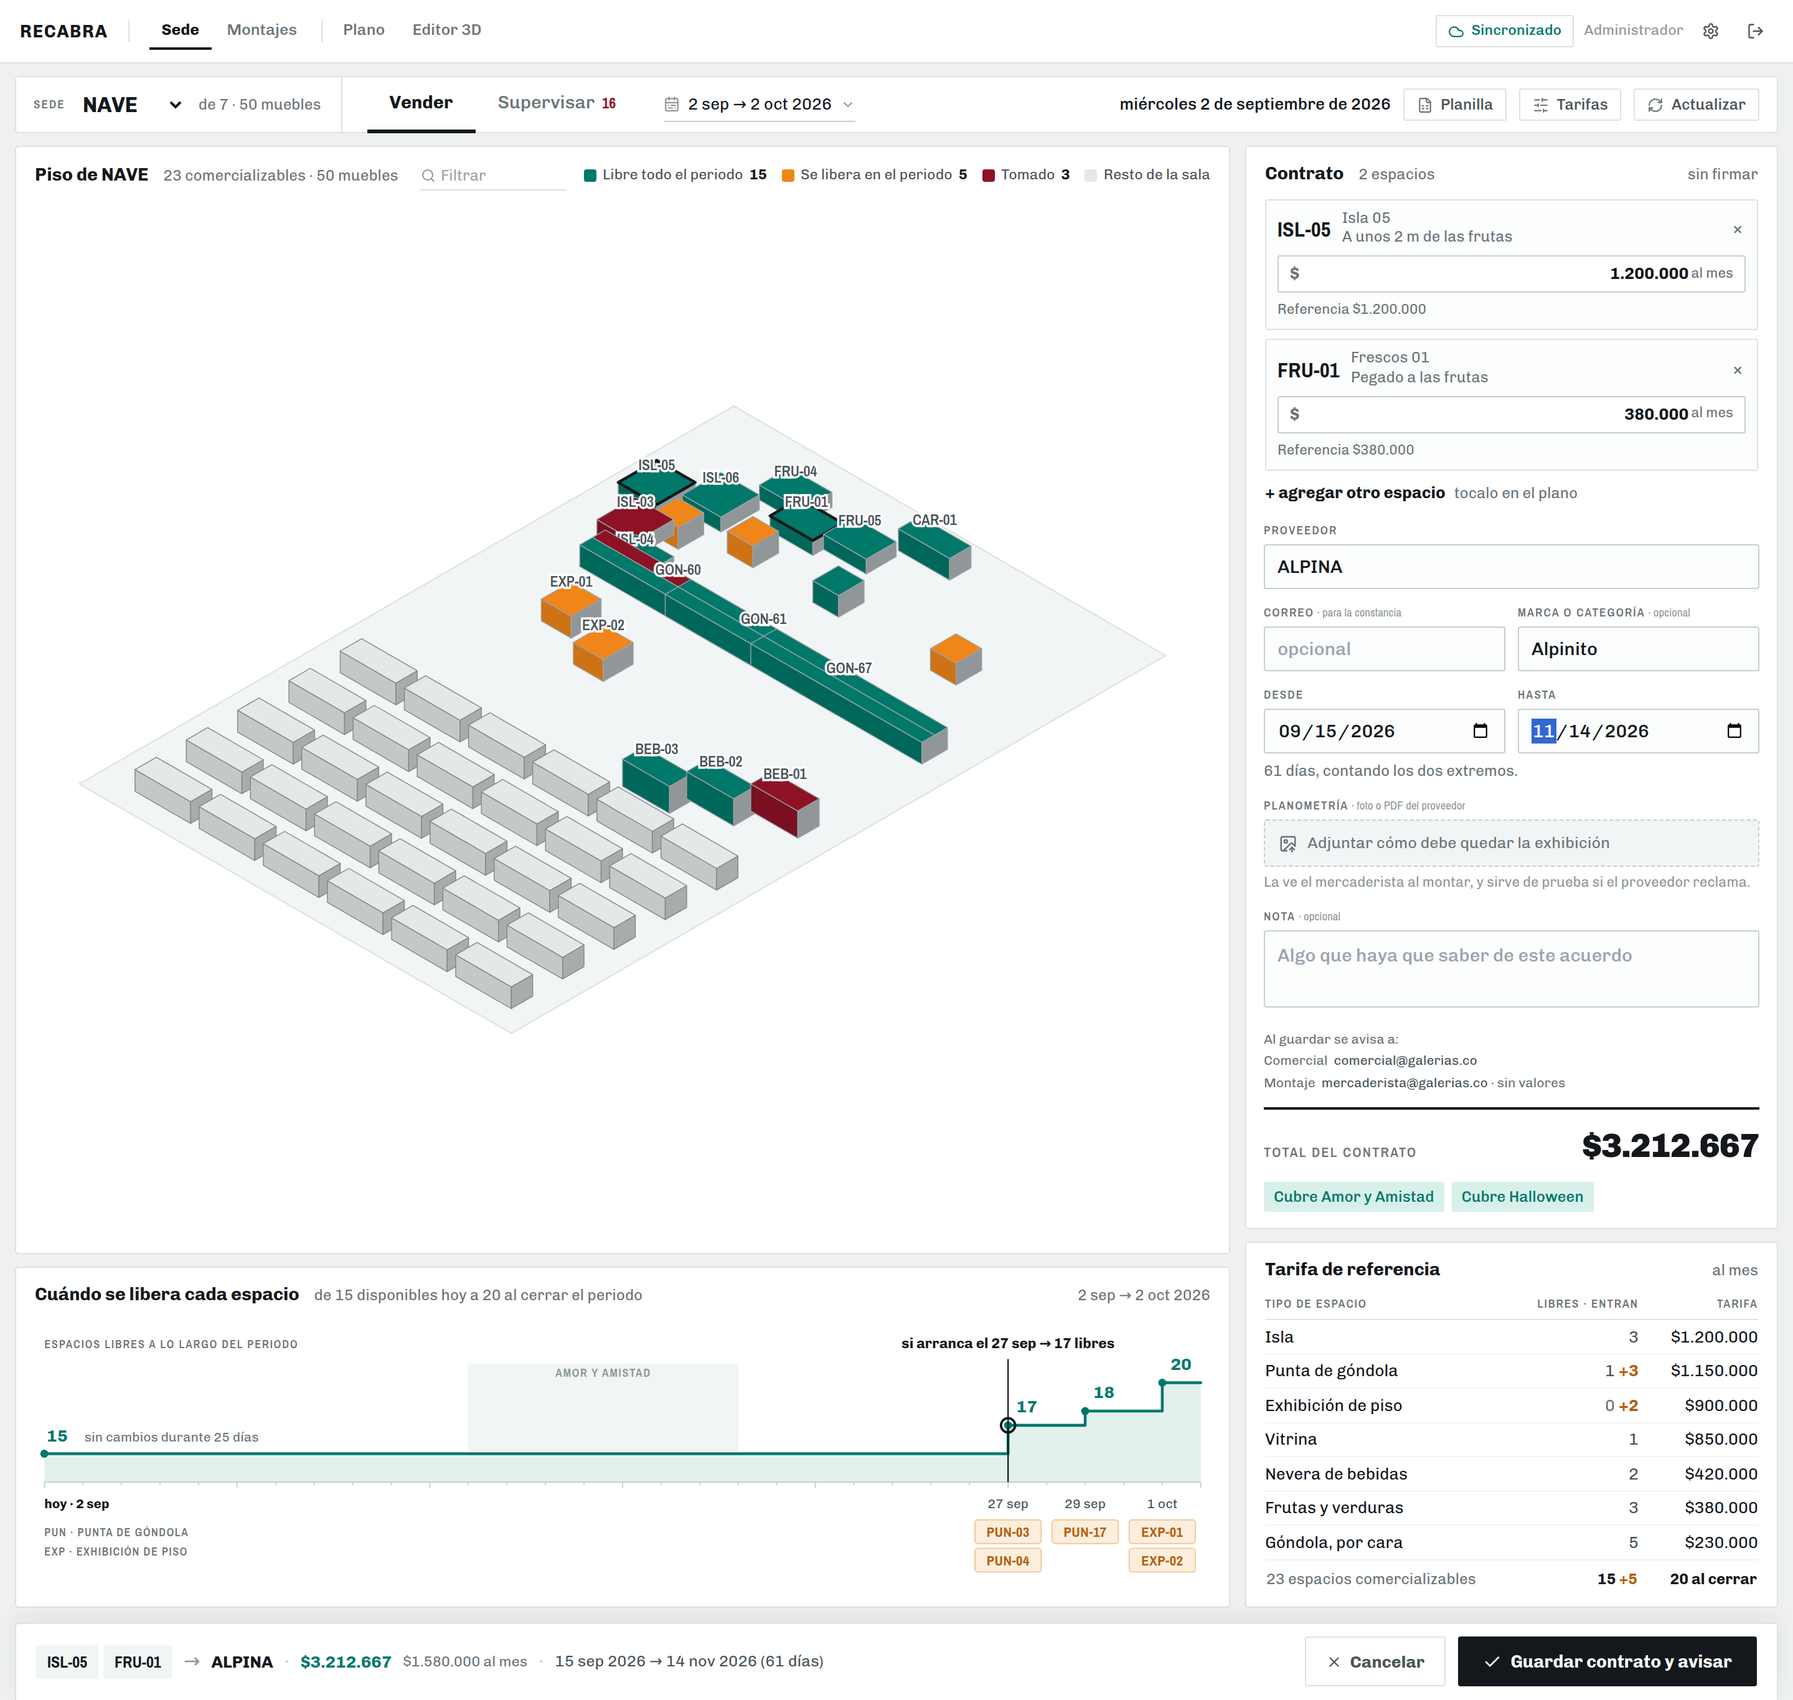
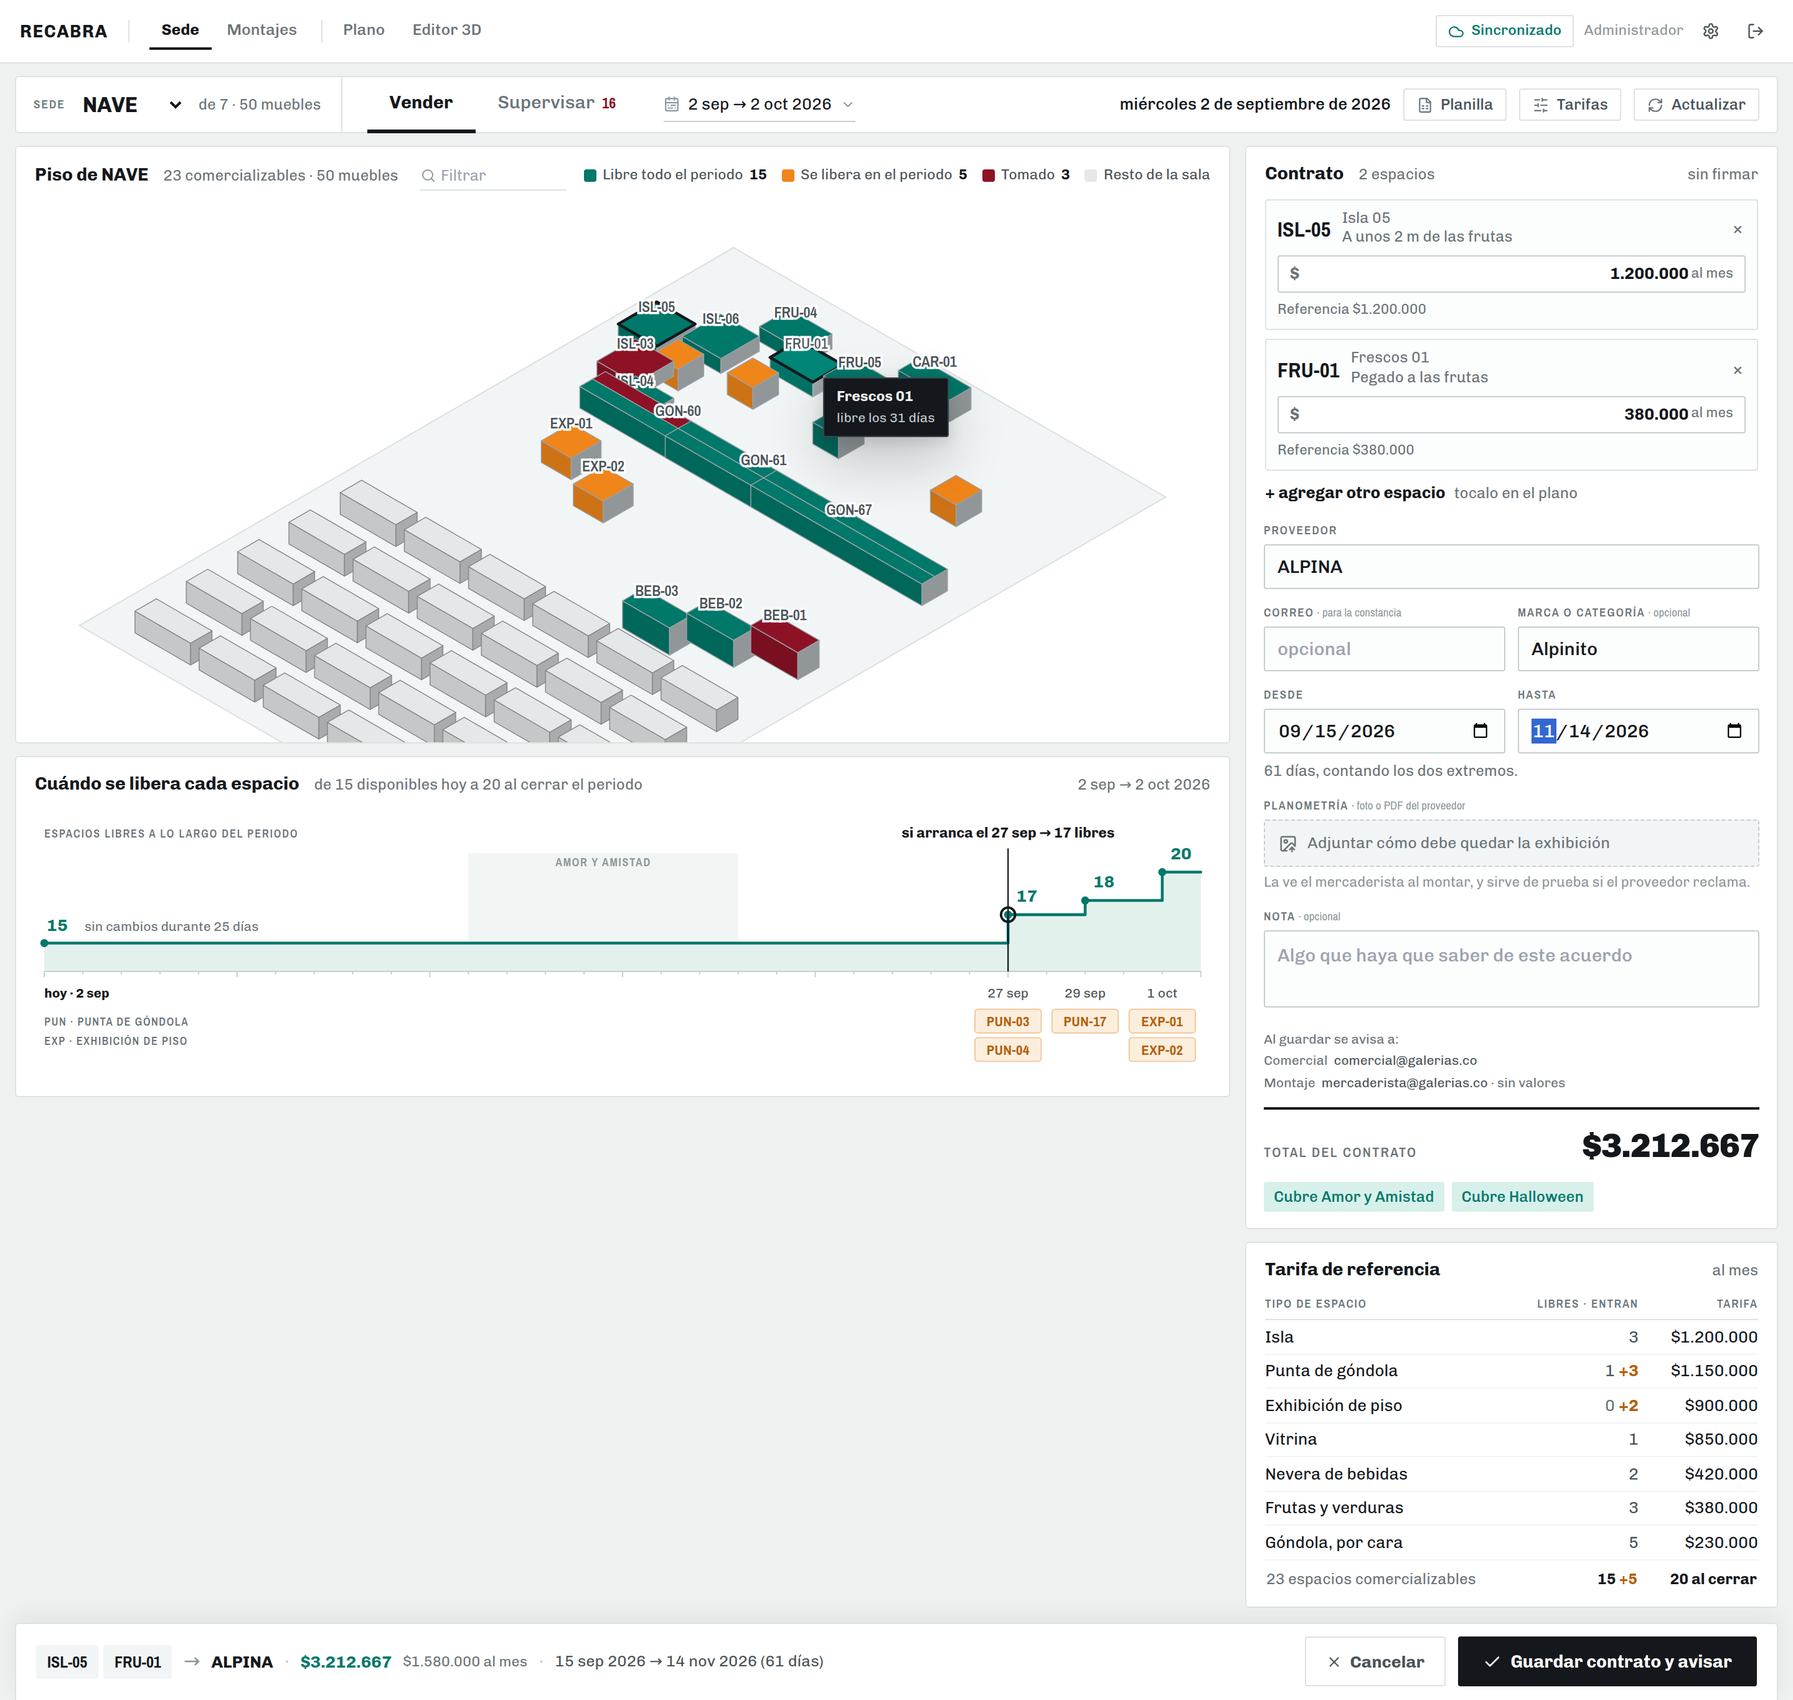
fix(plano): el encuadre, que dejaba el dibujo chico y medio panel en blanco
Tres cosas que salieron de mirar la pantalla desplegada, no de diseñarla.

EL ALTO DE LA TARJETA lo pone ahora la PROPORCIÓN DEL PLANO, no un número.
Estaba fijo en 538 —el de la maqueta— y con eso el panel quedaba de 1450×430,
una ranura de 3,4:1, mientras el plano de NAVE es de 1,7:1. `meet` lo encajaba
por el alto y dejaba el 55% del ancho en blanco: el dibujo se veía chico y
lejos, con medio panel vacío alrededor. El número de la maqueta funcionaba en
la maqueta porque su plano sintético daba 1,9 sobre un panel de 1024 — dos
medidas que no sobreviven al primer plano real ni a la primera pantalla ancha.

La proporción no se puede fijar en el código porque depende de la sede: una
tienda larga y angosta y una cuadrada proyectan distinto. El lienzo la toma del
viewBox de la escena, con techo de 720 px para que una sede casi cuadrada no
empuje una tarjeta de mil píxeles, y piso de 360 para que una muy alargada no
quede como una tira.

EN VENDER LA CÁMARA YA NO SE ACERCA al mueble elegido, y no es preferencia: ahí
tocar un espacio lo SUMA al contrato, así que el gesto siguiente es tocar otro
— y acercarse al primero esconde justamente los que faltan elegir. Con el
contrato multiespacio ese acercamiento pasó de ayuda a estorbo.

En Supervisar sí se acerca, porque ahí se abre una fila de la tabla y la
pregunta es dónde queda. Pero el tope baja de 3,4 a 1,9: a 3,4 se veían cuatro
muebles y el resto de la sala quedaba afuera, así que el plano dejaba de
[…]

diff --git a/frontend/src/pages/DashboardView.tsx b/frontend/src/pages/DashboardView.tsx
@@ -529,9 +529,19 @@ interface IsoMapProps {
    *  by what is happening today. */
   range: DateRange | null;
   rotulos?: Rotulos;
+  /** ¿La cámara se acerca al mueble elegido?
+   *
+   *  En Supervisar sí: se abre UNA fila de la tabla y la pregunta es dónde
+   *  queda. En Vender no, y no es una preferencia: ahí tocar un espacio lo suma
+   *  al contrato, así que el gesto siguiente es tocar OTRO — y acercarse al
+   *  primero esconde justamente los que faltan elegir. */
+  enfocar?: boolean;
 }
 
-function IsoMap({ fixtures, selectedIds, onSelect, match, range, rotulos = "todos" }: IsoMapProps) {
+function IsoMap({
+  fixtures, selectedIds, onSelect, match, range,
+  rotulos = "todos", enfocar = true,
+}: IsoMapProps) {
   const wrapRef = useRef<HTMLDivElement>(null);
   const [hoverId, setHoverId] = useState<string | null>(null);
   const [tip, setTip] = useState<{ x: number; y: number; title: string; sub: string } | null>(null);
@@ -703,14 +713,16 @@ function IsoMap({ fixtures, selectedIds, onSelect, match, range, rotulos = "todo
   // —un contrato sobre varias puntas— acercarse a uno esconde al resto y, peor,
   // esconde los que todavía faltan tocar. Ahí el trabajo es seguir eligiendo
   // sobre el plano entero.
-  const enfocado = selectedIds.length === 1
+  const enfocado = enfocar && selectedIds.length === 1
     ? scene.prisms.find((q) => q.f.id === selectedIds[0])?.foco ?? null
     : null;
-  // El tope importa más que la fórmula: una punta de góndola es tan chica que
-  // encuadrarla sola deja a los vecinos gigantes y cortados. Con 3.4 se ve el
-  // mueble y el pasillo alrededor, que es lo que hace falta para ubicarse.
+  // El tope importa más que la fórmula. Estaba en 3.4 y era demasiado: a esa
+  // distancia se ven cuatro muebles y el resto de la sala queda afuera, así que
+  // el plano deja de contestar «dónde queda esto» —que es su único trabajo— y
+  // pasa a ser un primer plano de un prisma. Con 1.9 el mueble se distingue y
+  // el pasillo entero sigue en pantalla.
   const k = enfocado
-    ? Math.min(3.4, Math.max(1, 0.17 * Math.min(scene.vb.w, scene.vb.h) / enfocado.r))
+    ? Math.min(1.9, Math.max(1, 0.17 * Math.min(scene.vb.w, scene.vb.h) / enfocado.r))
     : 1;
   // Sintaxis CSS, no de atributo SVG: `translate(10 20)` sin unidades ni coma
   // es válido como atributo pero inválido como propiedad, y el navegador
@@ -725,10 +737,29 @@ function IsoMap({ fixtures, selectedIds, onSelect, match, range, rotulos = "todo
     setTip({ x: e.clientX - rect.left, y: e.clientY - rect.top, title, sub });
   };
 
+  /** El lienzo toma la PROPORCIÓN DEL PLANO, no la de la tarjeta.
+   *
+   *  Con alto fijo el panel quedaba de 1450×430 —una ranura de 3.4:1— y el
+   *  plano de esta sede es de 1.7:1, así que `meet` lo encajaba por el alto y
+   *  dejaba el 55% del ancho en blanco: el dibujo se veía chico y lejos, con
+   *  medio panel vacío alrededor. La proporción no se puede fijar en el código
+   *  porque depende de la sede: una tienda larga y angosta y una cuadrada
+   *  proyectan distinto.
+   *
+   *  El tope de alto existe para que una sede casi cuadrada no empuje una
+   *  tarjeta de mil píxeles; el piso, para que una muy alargada no la deje
+   *  como una tira. Entre los dos, el plano llena su caja. */
+  const proporcion = scene.vb.w / scene.vb.h;
+
   return (
     <div
       ref={wrapRef}
-      style={{ position: "relative", flex: 1, minHeight: 0, display: "flex" }}
+      style={{
+        position: "relative", width: "100%", margin: "0 auto",
+        aspectRatio: `${scene.vb.w.toFixed(1)} / ${scene.vb.h.toFixed(1)}`,
+        maxHeight: 720, minHeight: 360, display: "flex",
+      }}
+      data-proporcion={proporcion.toFixed(2)}
     >
       <svg
         viewBox={scene.viewBox}
@@ -788,7 +819,7 @@ function IsoMap({ fixtures, selectedIds, onSelect, match, range, rotulos = "todo
                 setHoverId(null);
                 setTip(null);
               }}
-              opacity={dimmed ? 0.18 : enfocado && !selected ? 0.2 : 1}
+              opacity={dimmed ? 0.18 : enfocado && !selected ? 0.45 : 1}
               style={{
                 cursor: "pointer",
                 filter: hovered ? "brightness(1.12)" : undefined,
@@ -2689,8 +2720,11 @@ export default function DashboardView() {
   /** La tarjeta del mapa. Es la MISMA en los dos modos —el mapa no cambia
    *  porque cambie para qué estás mirándolo—; sólo cambian el subtítulo y las
    *  palabras de la clave, porque la pregunta que se le hace sí cambia. */
-  const tarjetaMapa = (alto: number | string) => (
-        <Card style={{ position: "relative", flex: "1 1 480px", minWidth: 0, height: alto }}>
+  /** La tarjeta del plano. No lleva alto: lo pone el lienzo, que se mide con
+   *  la proporción del plano de la sede. Fijarlo dejaba medio panel en blanco
+   *  alrededor de un dibujo chico. */
+  const tarjetaMapa = () => (
+        <Card style={{ position: "relative", flex: "1 1 480px", minWidth: 0 }}>
           <CardHeader
             title={`Piso de ${sede}`}
             sub={modoEfectivo === "vender"
@@ -2751,7 +2785,7 @@ export default function DashboardView() {
             }
           />
 
-          <div style={{ flex: 1, minHeight: 0, padding: "0 14px 12px", display: "flex" }}>
+          <div style={{ padding: "0 14px 12px", display: "flex" }}>
             <IsoMap
               fixtures={fixtures}
               /* En Vender se marcan TODOS los del contrato; en Supervisar, el
@@ -2763,6 +2797,7 @@ export default function DashboardView() {
               match={mapMatch}
               range={mapRange}
               rotulos={modoEfectivo === "vender" ? "todos" : "elegido"}
+              enfocar={modoEfectivo !== "vender"}
             />
           </div>
 
@@ -2789,7 +2824,7 @@ export default function DashboardView() {
    *  cerrar y volver a mirar el plano — cuatro gestos para un dato que se usa
    *  en cada llamada. */
   const panelTarifas = (
-    <Card style={{ flexShrink: 0 }}>
+    <Card style={{ flex: "1 1 auto", minHeight: 0 }}>
       <CardHeader title="Tarifa de referencia" right={<span>al mes</span>} />
       <div style={{ padding: "0 15px 12px", overflowY: "auto" }}>
         <table style={{ width: "100%", borderCollapse: "collapse" }}>
@@ -3107,7 +3142,7 @@ export default function DashboardView() {
           onSeguir={() => setCerrado(null)}
         >
           <div style={{ flex: "1 1 520px", minWidth: 0, display: "flex", flexDirection: "column", gap: 10 }}>
-            {tarjetaMapa(538)}
+            {tarjetaMapa()}
 
             {/* ── Cuándo se libera cada espacio ────────────────────────────
                 La escalera. Contesta la pregunta con la que se negocia una
@@ -3237,7 +3272,7 @@ export default function DashboardView() {
               gap: 10, marginBottom: 10,
             }}
           >
-            {tarjetaMapa(732)}
+            {tarjetaMapa()}
 
             <div
               style={{

diff --git a/frontend/src/components/Libera/Libera.tsx b/frontend/src/components/Libera/Libera.tsx
@@ -157,6 +157,19 @@ export default function Libera({ fixtures, facesOf, tipoDe, desde, hasta, tempor
   const iCursor = cursor ?? (cambios[0]?.[0] ?? 0);
   const libresEn = serie[Math.max(0, Math.min(dias, iCursor))];
 
+  // La lectura del cursor va centrada sobre él, pero sin salirse por ninguno de
+  // los dos costados. El ancho se estima por la cantidad de caracteres: adentro
+  // de un SVG no hay manera de medir texto antes de dibujarlo, y una estimación
+  // por lo alto es más segura que un margen fijo —que es lo que había, y por eso
+  // el rótulo del eje y la lectura se pisaban cuando el cursor caía a la
+  // izquierda.
+  const lectura = `si arranca el ${dm(fecha(iCursor))} → ${libresEn} libres`;
+  const anchoLectura = lectura.length * 6.6;
+  const xLectura = Math.max(anchoLectura / 2 + X0,
+                            Math.min(X1 - anchoLectura / 2, x(iCursor)));
+  const ROTULO_ANCHO = 236;   // «ESPACIOS LIBRES A LO LARGO DEL PERIODO» en 9.5
+  const pisaElRotulo = xLectura - anchoLectura / 2 < X0 + ROTULO_ANCHO + 12;
+
   // El primer tramo plano: «sin cambios durante N días» es la mitad del valor
   // de este gráfico, y es lo único que no se ve mirando la escalera.
   const primerCambio = cambios[0]?.[0] ?? null;
@@ -184,7 +197,12 @@ export default function Libera({ fixtures, facesOf, tipoDe, desde, hasta, tempor
       }}
       onMouseLeave={() => setCursor(null)}
     >
-      <text x={f(X0)} y="17" style={rot}>Espacios libres a lo largo del periodo</text>
+      {/* El rótulo del eje y la lectura del cursor comparten este renglón, y
+          cuando el cursor está a la izquierda se pisan. Manda la lectura: es la
+          respuesta, y el rótulo dice lo que el gráfico ya está mostrando. */}
+      {!pisaElRotulo && (
+        <text x={f(X0)} y="17" style={rot}>Espacios libres a lo largo del periodo</text>
+      )}
 
       {/* La temporada, detrás: explica por qué varias entregas caen juntas. */}
       {temporadas.map((t) => {
@@ -237,11 +255,8 @@ export default function Libera({ fixtures, facesOf, tipoDe, desde, hasta, tempor
       {/* El cursor: la respuesta escrita. */}
       <line x1={f(x(iCursor))} y1="26" x2={f(x(iCursor))} y2={f(YE)} stroke="#14181C" strokeWidth="1.2" />
       <circle cx={f(x(iCursor))} cy={f(y(libresEn))} r="6" fill="none" stroke="#14181C" strokeWidth="2" />
-      <text
-        x={f(Math.max(150, Math.min(ANCHO - 150, x(iCursor))))}
-        y="17" style={cruzT} textAnchor="middle"
-      >
-        si arranca el {dm(fecha(iCursor))} → {libresEn} libres
+      <text x={f(xLectura)} y="17" style={cruzT} textAnchor="middle">
+        {lectura}
       </text>
 
       {/* Las fechas y, debajo, los códigos que se mueven en cada una. */}

diff --git a/frontend/src/components/Contrato/ModoVender.tsx b/frontend/src/components/Contrato/ModoVender.tsx
@@ -58,7 +58,12 @@ function Armazon({
 }) {
   return (
     <div style={{ display: "flex", flexDirection: "column", gap: 12 }}>
-      <div style={{ display: "flex", gap: 12, alignItems: "stretch" }}>
+      {/* `flex-start` y no `stretch`: la tarjeta del plano se mide con la
+          proporción del plano, y estirarla para igualar la altura de la ficha
+          le agregaba trescientos píxeles de blanco abajo del dibujo. Cada
+          columna mide lo que mide; la que se estira es la de la derecha, y
+          sólo cuando no hay ficha. */}
+      <div style={{ display: "flex", gap: 12, alignItems: "flex-start" }}>
         {mapa}
         {/* Mientras no hay un espacio elegido, acá había 428 px de blanco con
             un rótulo chiquito arriba explicando que ahí iba a aparecer algo.
@@ -73,8 +78,17 @@ function Armazon({
           <div
             style={{
               width: ANCHO_FICHA, flexShrink: 0, minWidth: 0,
-              alignSelf: "flex-start", position: "sticky", top: 0,
               display: "flex", flexDirection: "column", gap: 10,
+              /* Con ficha la columna es alta y se pega arriba al hacer scroll.
+                 Sin ficha queda sólo la lista de precios —unos 380 px— al lado
+                 de un plano que puede medir 700, y eso dejaba trescientos
+                 píxeles de fondo gris que se leen como que falta algo. Estirada,
+                 la tabla queda arriba y lo que sobra es hoja en blanco: una
+                 lista de precios que no llena su hoja es una lista de precios,
+                 no un hueco. */
+              ...(ficha !== null
+                ? { alignSelf: "flex-start" as const, position: "sticky" as const, top: 0 }
+                : { alignSelf: "stretch" as const }),
             }}
           >
             {ficha}

diff --git a/docs/ESTADO.md b/docs/ESTADO.md
@@ -410,6 +410,34 @@ sin nada que los ate. No hay tabla de contratos —y la habría que agregar, no 
 sí está permitido—. Mientras tanto la agrupación es **derivable**: mismo proveedor,
 mismo desde, mismo hasta, misma sede. Cancelar sigue siendo de a un espacio.
 
+#### El encuadre del plano
+
+Tres cosas que salieron de mirar la pantalla desplegada y no de diseñarla.
+
+**La tarjeta del plano no lleva alto: lo pone la PROPORCIÓN DEL PLANO.** Con alto fijo
+—538 en Vender, 732 en Supervisar, que son los de la maqueta— el panel quedaba de
+1450×430, una ranura de 3,4:1, y el plano de NAVE es de 1,7:1. `preserveAspectRatio`
+lo encajaba por el alto y dejaba **el 55 % del ancho en blanco**: el dibujo se veía
+chico y lejos, con medio panel vacío alrededor. La proporción no se puede fijar en el
+código porque depende de la sede —una tienda larga y angosta y una cuadrada proyectan
+distinto—, así que el lienzo la toma del `viewBox` de la escena, con un techo de 720 px
+para que una sede casi cuadrada no empuje una tarjeta de mil píxeles y un piso de 360
+para que una muy alargada no quede como una tira.
+
+**En Vender la cámara ya no se acerca al mueble elegido.** No es una preferencia: ahí
+tocar un espacio lo SUMA al contrato, así que el gesto siguiente es tocar otro — y
+acercarse al primero esconde justamente los que faltan elegir. En Supervisar sí se
+acerca, porque ahí se abre una fila de la tabla y la pregunta es dónde queda; pero el
+tope bajó de 3,4 a 1,9 —a 3,4 se veían cuatro muebles y el resto de la sala quedaba
+afuera— y el resto de la sala se apaga al 45 % y no al 20 %, que dejaba fantasmas.
+
+**Las columnas miden lo que miden.** La fila es `flex-start` y no `stretch`: estirar la
+tarjeta del plano para igualar la altura de la ficha le agregaba trescientos píxeles de
+blanco debajo del dibujo. La única que se estira es la de la derecha, y sólo cuando no
+hay ficha: si no, la lista de precios —unos 380 px— quedaba al lado de un plano de 700
+y dejaba el fondo gris a la vista, que se lee como que falta algo. Estirada, la tabla
+queda arriba y lo que sobra es hoja en blanco.
+
 **Cómo se mira sin backend.** `docs/maquetas/generadores/pantalla.mjs` sirve
 `frontend/dist` y contesta `/api/*` con una sede sintética que lleva los ocho contratos
 reales de NAVE. Lo que no está en el mapa de rutas contesta **404 y no `[]`** —así un
